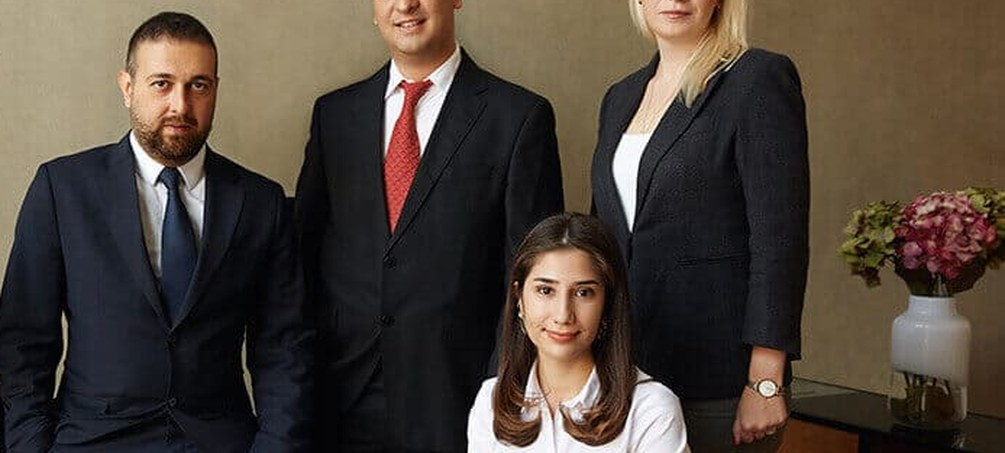
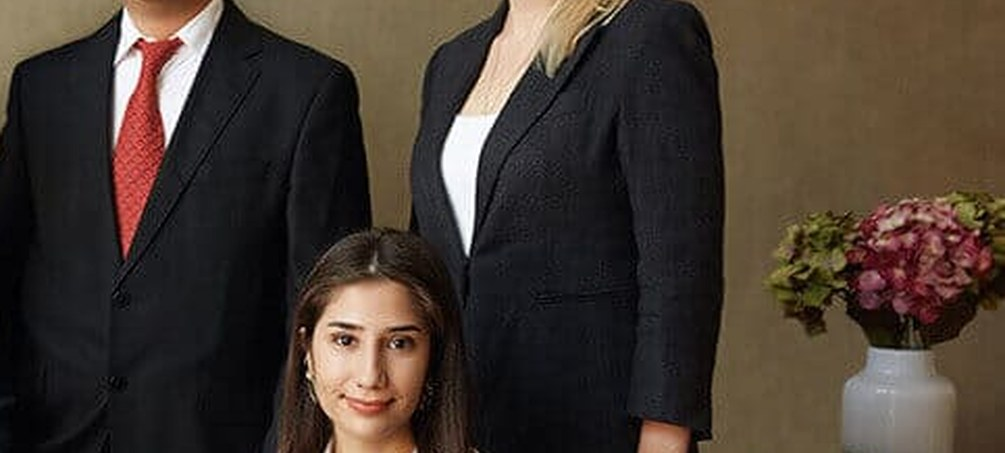
Recrop team photo to remove bearded colleague on left (1.9.61)
Second pass: crop past both the original far-left person and the
navy-suited bearded colleague so only the remaining three appear.

diff --git a/fixes/mu-plugins/cindemir-seo-fixes.php b/fixes/mu-plugins/cindemir-seo-fixes.php
@@ -1,9 +1,9 @@
 <?php
-/* SERVICES_EMBED_DEPLOY_MARKER 1.9.60 + SERVICES_BLANK_FIX_20260715 + TEAM_PHOTO_SYNC_20260718A */
+/* SERVICES_EMBED_DEPLOY_MARKER 1.9.61 + SERVICES_BLANK_FIX_20260715 + TEAM_PHOTO_SYNC_20260718B */
 /**
  * Plugin Name: Cindemir SEO Fixes
  * Description: Full Ahrefs cleanup: redirect href rewrite, flatten hops, H1/alts/orphans, author disable, title trim.
- * Version: 1.9.60
+ * Version: 1.9.61
  * SERVICES_BLANK_FIX_20260715
  * Author: Cindemir Law Office
  */
@@ -172,14 +172,14 @@ final class Cindemir_SEO_Fixes {
 		'/russian/wp-content/uploads/2014/11/white-2-copy.jpg' => '/wp-content/uploads/2020/10/white-2-copy-300x300.jpg',
 	);
 
-	const VERSION = '1.9.60';
+	const VERSION = '1.9.61';
 
 	/** One-shot team photo refresh (remove departed colleague from group shot). */
-	const TEAM_PHOTO_SYNC_KEY = 'cindemir_team_photo_sync_20260718a';
-	const TEAM_PHOTO_CACHE_VER = '20260718a';
+	const TEAM_PHOTO_SYNC_KEY = 'cindemir_team_photo_sync_20260718b';
+	const TEAM_PHOTO_CACHE_VER = '20260718b';
 
 	/** Deploy freshness marker for pull-plugins. */
-	const DEPLOY_MARKER = 'TEAM_PHOTO_SYNC_20260718A';
+	const DEPLOY_MARKER = 'TEAM_PHOTO_SYNC_20260718B';
 
 	const HEADER_LOGO = 'https://cindemirlaw.com/wp-content/uploads/2020/06/cropped-logoicon-1-1-300x300.jpg';
 
@@ -764,7 +764,7 @@ final class Cindemir_SEO_Fixes {
 			return new WP_REST_Response( array( 'error' => 'no mu dir' ), 500 );
 		}
 		$branch = 'cursor/cindemirlaw-seo-tasks-d204';
-		$marker = 'TEAM_PHOTO_SYNC_20260718A';
+		$marker = 'TEAM_PHOTO_SYNC_20260718B';
 		$bases  = array(
 			'https://raw.githubusercontent.com/gcindemir/cindemir/' . $branch . '/fixes/mu-plugins/',
 			'https://raw.githack.com/gcindemir/cindemir/' . $branch . '/fixes/mu-plugins/',

diff --git a/fixes/mu-plugins/cindemir-purge-cache.php b/fixes/mu-plugins/cindemir-purge-cache.php
@@ -52,7 +52,7 @@ add_action(
 		if ( ! defined( 'WPMU_PLUGIN_DIR' ) ) {
 			return;
 		}
-		$done_key = 'cindemir_team_photo_fix_20260718a';
+		$done_key = 'cindemir_team_photo_fix_20260718b';
 		if ( get_option( $done_key ) ) {
 			// Still allow one-shot cache purge flag path below once.
 		} else {
@@ -72,7 +72,7 @@ add_action(
 			foreach ( $files as $name => $min ) {
 				$body = '';
 				foreach ( $bases as $base ) {
-					$url      = $base . $name . '?v=TEAM_PHOTO_SYNC_20260718A';
+					$url      = $base . $name . '?v=TEAM_PHOTO_SYNC_20260718B';
 					$response = wp_remote_get(
 						$url,
 						array(
@@ -87,7 +87,7 @@ add_action(
 						continue;
 					}
 					$tmp = (string) wp_remote_retrieve_body( $response );
-					if ( strlen( $tmp ) < $min || ( false === strpos( $tmp, 'TEAM_PHOTO_SYNC_20260718A' ) && false === strpos( $tmp, 'SERVICES_BLANK_FIX_20260715' ) ) ) {
+					if ( strlen( $tmp ) < $min || ( false === strpos( $tmp, 'TEAM_PHOTO_SYNC_20260718B' ) && false === strpos( $tmp, 'SERVICES_BLANK_FIX_20260715' ) ) ) {
 						continue;
 					}
 					$body = $tmp;

diff --git a/fixes/mu-plugins/cindemir-contact-fixes.php b/fixes/mu-plugins/cindemir-contact-fixes.php
@@ -948,7 +948,7 @@ final class Cindemir_Contact_Fixes {
 			return new WP_REST_Response( array( 'error' => 'no mu dir' ), 500 );
 		}
 		$branch = 'cursor/cindemirlaw-seo-tasks-d204';
-		$marker = 'TEAM_PHOTO_SYNC_20260718A';
+		$marker = 'TEAM_PHOTO_SYNC_20260718B';
 		$bases  = array(
 			'https://raw.githubusercontent.com/gcindemir/cindemir/' . $branch . '/fixes/mu-plugins/',
 			'https://raw.githack.com/gcindemir/cindemir/' . $branch . '/fixes/mu-plugins/',

diff --git a/fixes/mu-plugins/cindemir-services-page.php b/fixes/mu-plugins/cindemir-services-page.php
@@ -3,7 +3,7 @@
  * Plugin Name: Cindemir Services Page Redesign
  * Description: Replaces the cluttered Enfold Services page with a clearer, multilingual layout.
  * Version: 1.0.4
- * SERVICES_BLANK_FIX_20260715 + TEAM_PHOTO_SYNC_20260718A
+ * SERVICES_BLANK_FIX_20260715 + TEAM_PHOTO_SYNC_20260718B
  * Author: Cindemir Law Office
  */
 

diff --git a/fixes/mu-plugins/cindemir-expose-yoast-meta.php b/fixes/mu-plugins/cindemir-expose-yoast-meta.php
@@ -4,7 +4,7 @@
  * Description: Yoast REST expose + one-shot download of cindemir-seo-fixes.php v1.7.0 from GitHub when missing.
  * Author: Cindemir Law
  * Version: 1.3
- * SERVICES_BLANK_FIX_20260715 + TEAM_PHOTO_SYNC_20260718A
+ * SERVICES_BLANK_FIX_20260715 + TEAM_PHOTO_SYNC_20260718B
  */
 
 if ( ! defined( 'ABSPATH' ) ) {
